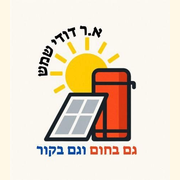
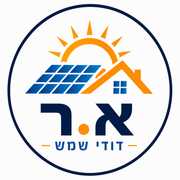
Add files via upload

diff --git a/index.html b/index.html
@@ -162,7 +162,9 @@
   }
   </script>
   <link rel="icon" type="image/x-icon" href="favicon.ico" />
-  <link rel="icon" type="image/png" sizes="32x32" href="favicon.png" />
+  <link rel="icon" type="image/png" sizes="32x32" href="favicon-32.png" />
+  <link rel="icon" type="image/png" sizes="16x16" href="favicon-16.png" />
+  <link rel="icon" type="image/png" sizes="192x192" href="icon-192.png" />
   <link rel="apple-touch-icon" sizes="180x180" href="apple-touch-icon.png" />
   <link rel="preconnect" href="https://fonts.googleapis.com" />
   <link rel="preconnect" href="https://fonts.gstatic.com" crossorigin />